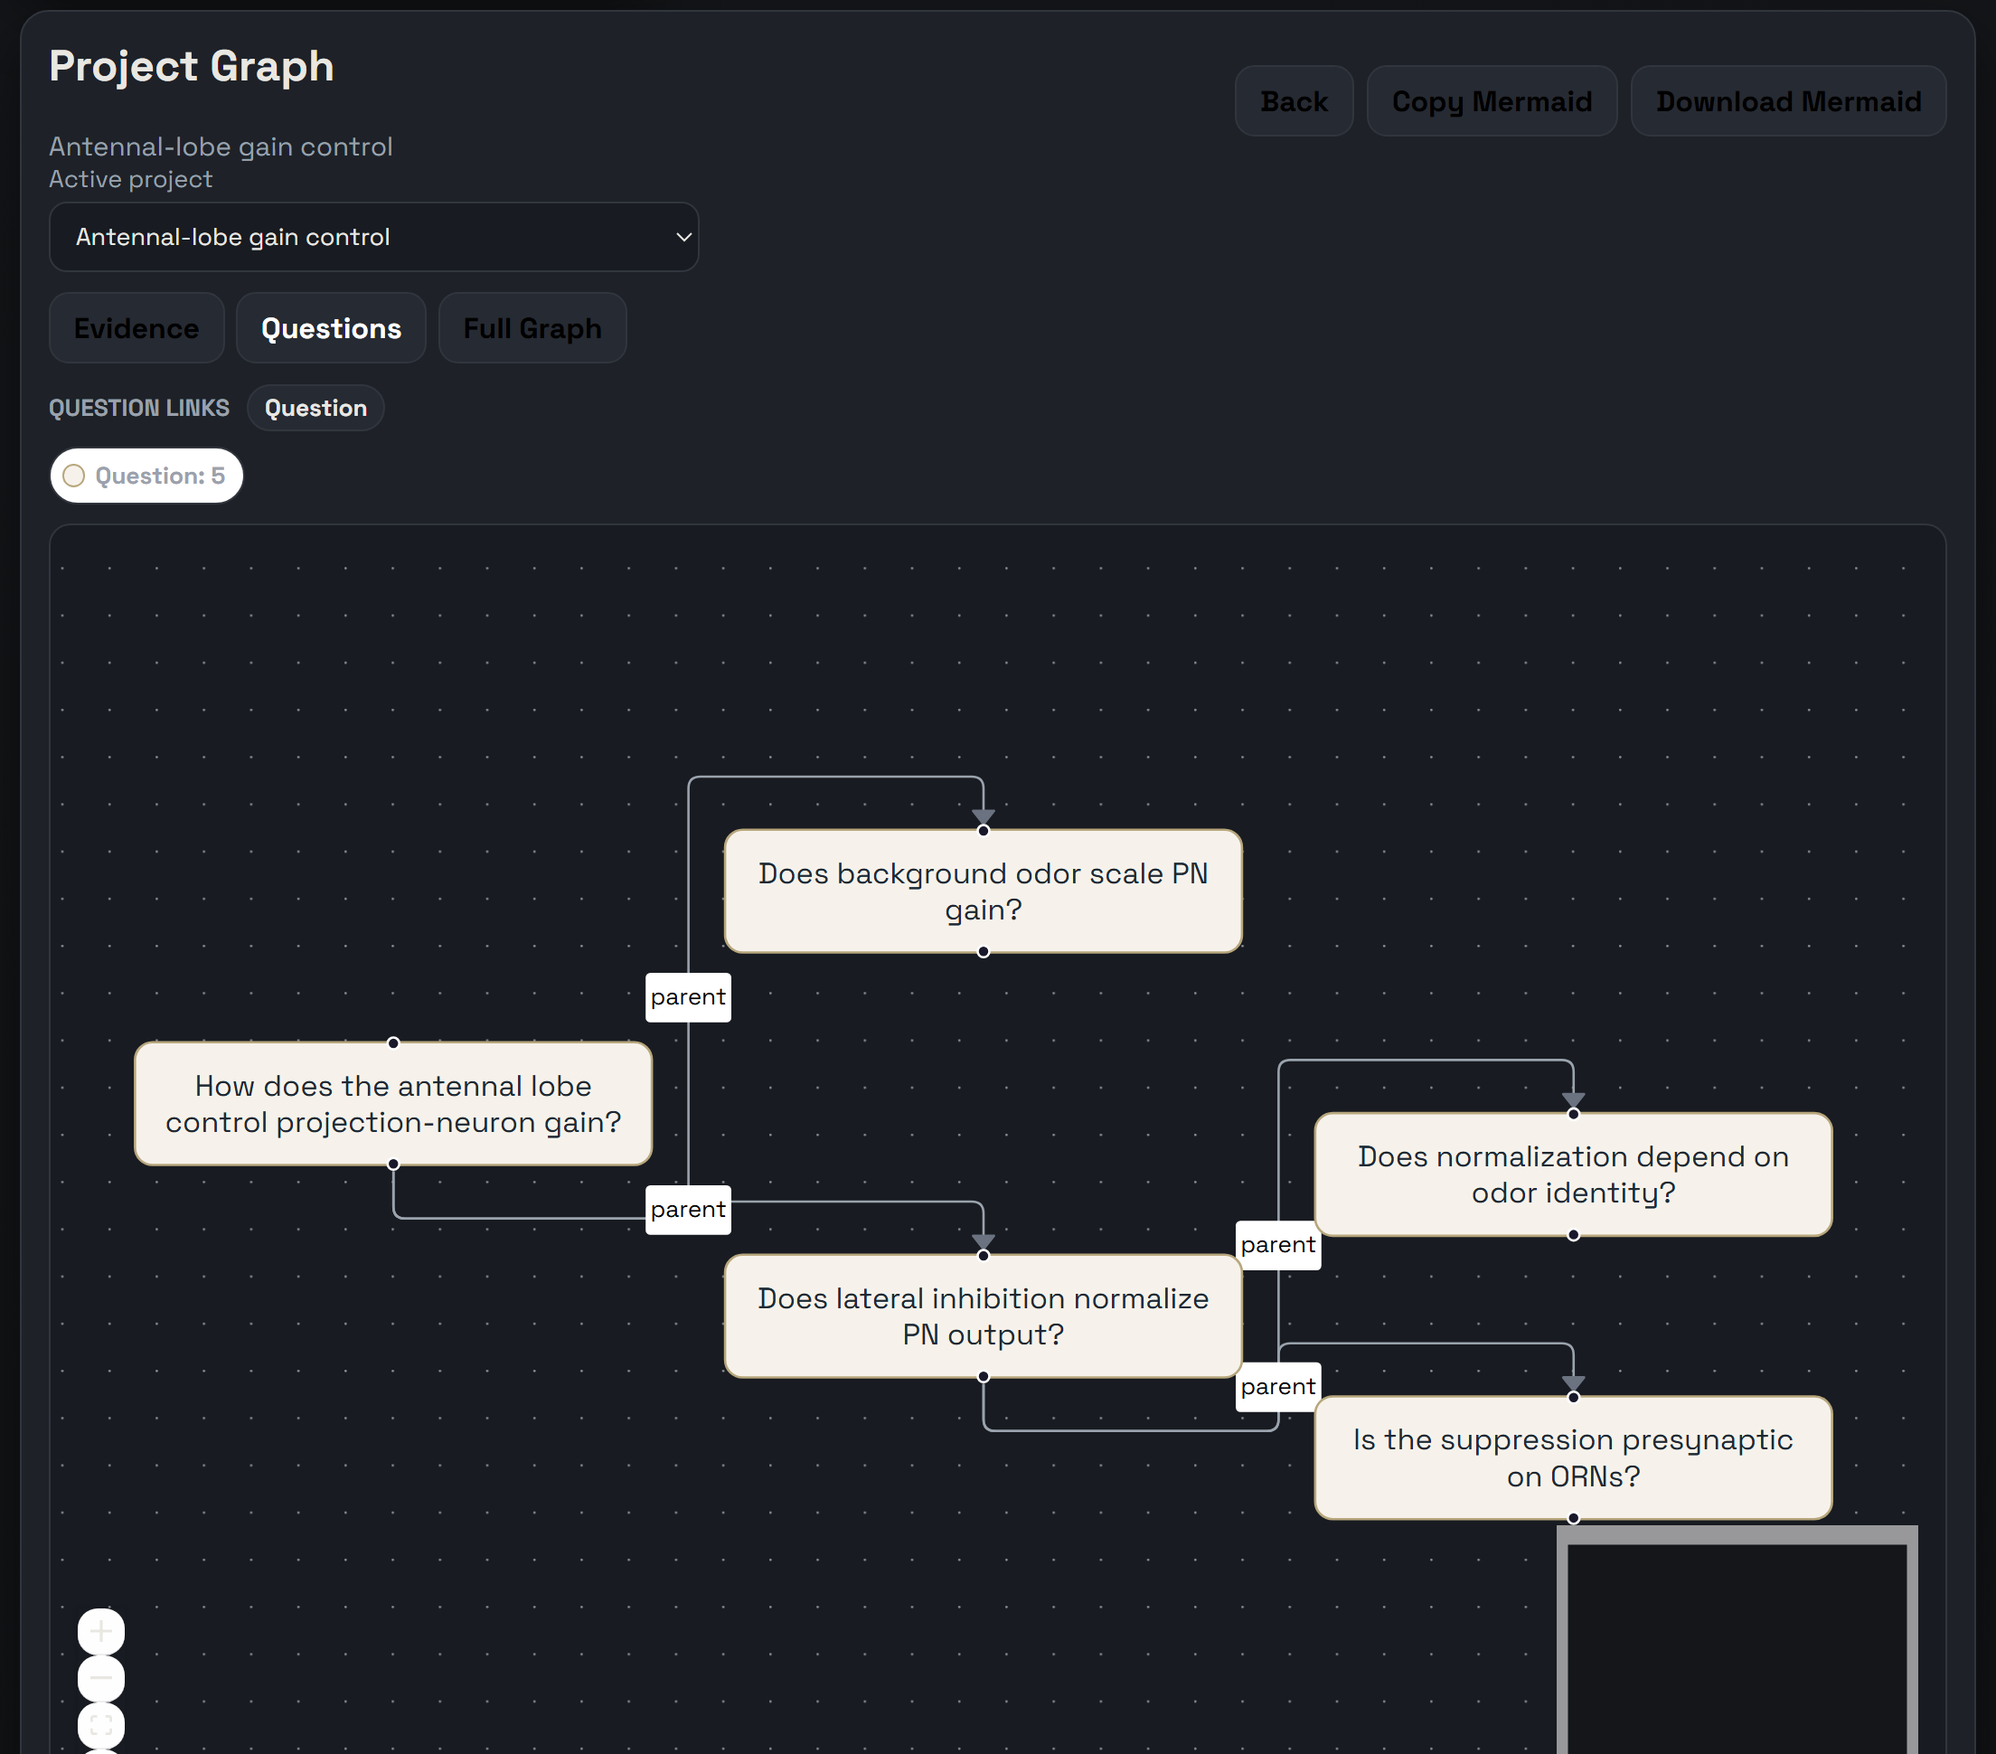
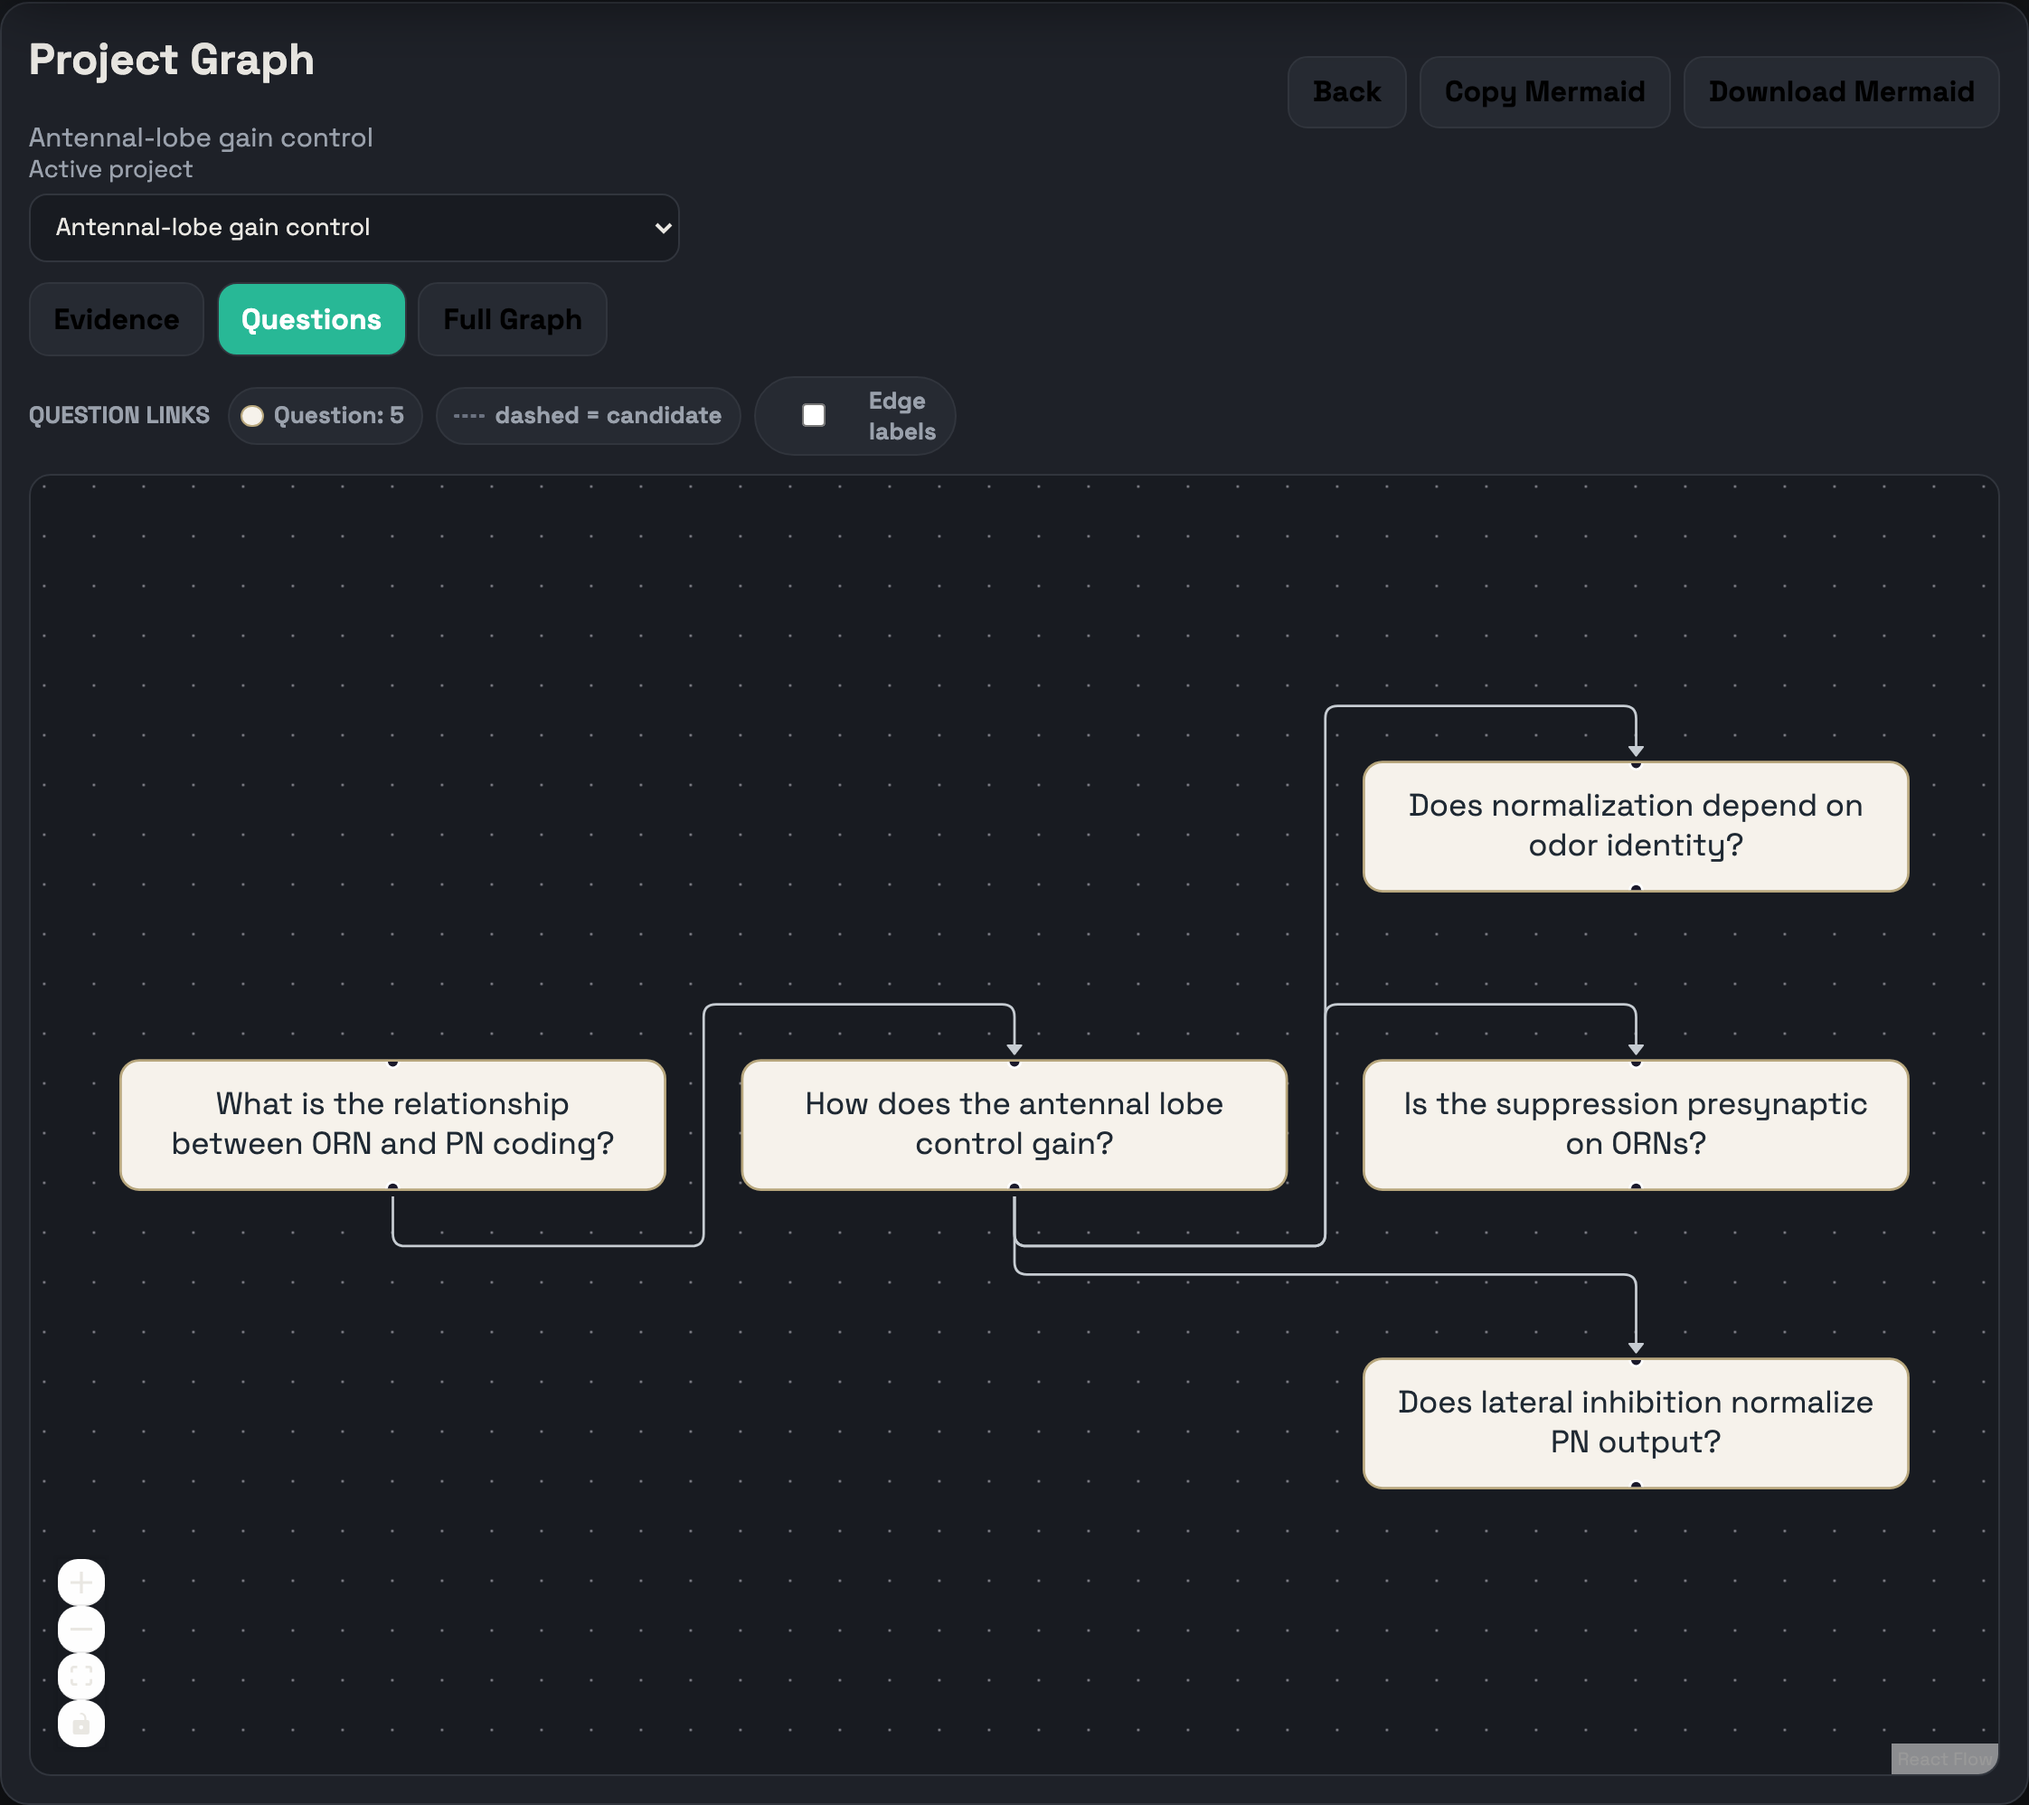
docs(graph): add reproducible screenshot script; refresh README graph shots
The README's project-graph screenshots still showed the removed MiniMap and
the pre-de-clutter chrome (two-row axis+legend, always-on edge labels). Add a
Playwright script that regenerates them from the offline demo dataset, and
re-shoot the evidence/questions/full views with it.

- scripts/shoot-screenshots.mjs: dark-mode, retina captures of the
  .project-graph-card element via ?demo=1 (no DB/login). Spawns its own
  uvicorn, or reuses SHOT_BASE_URL. `npm run shoot:screenshots`.
- Regenerate the three graph screenshots: no MiniMap, merged legend row,
  edge labels off by default, and notes/sessions hidden in the full view.
- Remove now-dead .react-flow__minimap dark-theme CSS rules.

diff --git a/src/lab_tracker/frontend/index.html b/src/lab_tracker/frontend/index.html
@@ -11,9 +11,9 @@
     <link rel="manifest" href="/app/static/manifest.json" />
     <link rel="apple-touch-icon" href="/app/static/icon-180.png" />
     <link rel="icon" type="image/png" sizes="192x192" href="/app/static/icon-192.png" />
-    <link rel="stylesheet" href="/app/static/styles.css?v=1d35e86734b0" />
+    <link rel="stylesheet" href="/app/static/styles.css?v=656262c55cee" />
     <link rel="stylesheet" href="/app/static/app.css" />
-    <script src="/app/static/app.js?v=1d35e86734b0" defer></script>
+    <script src="/app/static/app.js?v=656262c55cee" defer></script>
   </head>
   <body>
     <div id="app-root"></div>

diff --git a/src/lab_tracker/frontend/styles.css b/src/lab_tracker/frontend/styles.css
@@ -1585,10 +1585,6 @@ button.project-graph-legend-item:hover {
   background: radial-gradient(circle at 20% 0, #181b21 0%, #141619 45%, #121316 100%);
 }
 
-:root[data-theme="dark"] .react-flow__minimap {
-  background: #14161a;
-}
-
 :root[data-theme="dark"] .hero {
   background: rgba(30, 33, 40, 0.82);
 }
@@ -1718,10 +1714,6 @@ button.project-graph-legend-item:hover {
   :root,
   body {
     background: radial-gradient(circle at 20% 0, #181b21 0%, #141619 45%, #121316 100%);
-  }
-
-  .react-flow__minimap {
-    background: #14161a;
   }
 
   .hero {

diff --git a/src/lab_tracker/frontend/sw.js b/src/lab_tracker/frontend/sw.js
@@ -10,12 +10,12 @@
  * one place.
  */
 
-const CACHE_VERSION = "v-1d35e86734b0";
+const CACHE_VERSION = "v-656262c55cee";
 const CACHE_NAME = `lab-tracker-shell-${CACHE_VERSION}`;
 const SHELL_ASSETS = [
   "/app/",
-  "/app/static/app.js?v=1d35e86734b0",
-  "/app/static/styles.css?v=1d35e86734b0",
+  "/app/static/app.js?v=656262c55cee",
+  "/app/static/styles.css?v=656262c55cee",
   "/app/static/manifest.json",
   "/app/static/icon-180.png",
   "/app/static/icon-192.png",
